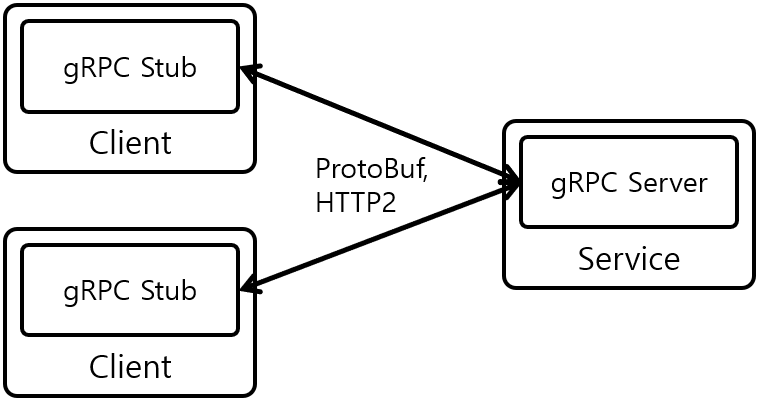
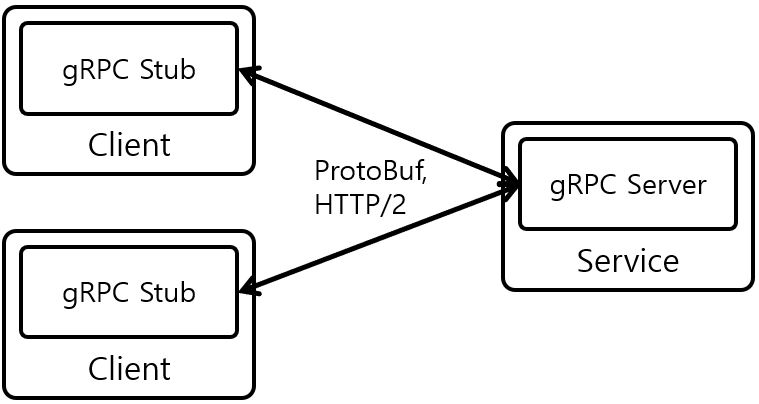
Update

diff --git a/_docs/theory_analysis/gRPC.md b/_docs/theory_analysis/gRPC.md
@@ -11,16 +11,43 @@ gRPC를 분석한다.
 
 ### 1. gRPC
 
-![[그림 1] Forward Proxy]({{site.baseurl}}/images/theory_analysis/gRPC/gRPC_Architecture.PNG){: width="500px"}
+![[그림 1] Forward Proxy]({{site.baseurl}}/images/theory_analysis/gRPC/gRPC_Architecture.PNG){: width="450px"}
 
-gRPC는 다양한 환경에서 구동 가능한 RPC (Remote Procedure Call) Framework이다. [그림 1]은 gRPC Architecture를 나타내고 있다. 요청을 처리하는 Service에서는 gRPC Server가 동작하며, Client에서는 gRPC Stub이 동작한다. gRPC Server와 gRPC Stub 사이의 Interface는 ProtoBuf를 이용하여 정의한다. gRPC Server와 gRPC Stub 사이에는 다양한 Protocol을 통해서 통신이 가능하지만 일반적으로는 HTTP2를 이용한다.
+gRPC는 다양한 환경에서 구동 가능한 RPC (Remote Procedure Call) Framework이다. [그림 1]은 gRPC Architecture를 나타내고 있다. 요청을 처리하는 Service에서는 gRPC Server가 동작하며, Client에서는 gRPC Stub이 동작한다. gRPC Server와 gRPC Stub 사이의 Interface는 ProtoBuf를 이용하여 정의한다. gRPC Server와 gRPC Stub 사이에는 HTTP/2를 이용하여 통신한다. gRPC는 현재 Java, C++, Golang, Ruby, Python등 다양한 언어를 지원한다.
 
 #### 1.1. ProtoBuf
 
-#### 1.2. vs HTTP1 + JSON
+{% highlight text %}
+message Person {
+  string name = 1;
+  int32 id = 2;
+  string email = 3;
+
+  enum PhoneType {
+    MOBILE = 0;
+    HOME = 1;
+    WORK = 2;
+  }
+
+  message PhoneNumber {
+    string number = 1;
+    PhoneType type = 2;
+  }
+}
+{% endhighlight %}
+<figure>
+<figcaption class="caption">[파일 1] addressbook.proto </figcaption>
+</figure>
+
+ProtoBuf는 Server와 Client 사이에서 구조화된 Data를 쉽게 주고 받을수 있도록, Interface를 정의하고 구조화된 Data를 Serialization하는 역활을 수행한다. [파일 1]은 구조화된 Data인 Person Data를 ProtoBuf 규격에 맞게 저장하고 있는 .proto 파일을 나타내고 있다. ProtoBuf는 .proto 파일을 컴파일하여 gRPC Server와 gRPC Client에서 이용할 수 있는 Code를 생성한다. 생성된 Code를 이용하여 Server와 Client는 gRPC를 수행한다.
+
+#### 1.2. vs HTTP/1.1 + JSON
+
+gRPC가 현재 주목받는 가장큰 이유는 기존의 HTTP/1.1 + JSON Protocol보다 빠르기 때문이다. HTTP/1.1과 JSON은 Text Protocol인 만큼 성능면에서는 분리하다. gRPC에서 이용하는 HTTP/2와 ProtoBuf는 Binray Protocol인만큼 상대적을 적은양의 Packet을 주고 받는다. 또한 gRPC는 HTTP/2에서 지원하는 Connection Multiplexing, Server/Client Streaming을 이용하여 효율성을 좀더 끌어 올리고 있다.
 
 ### 2. 참조
 
 * [https://grpc.io/docs/](https://grpc.io/docs/)
 * [https://medium.com/@goinhacker/microservices-with-grpc-d504133d191d](https://medium.com/@goinhacker/microservices-with-grpc-d504133d191d)
 * [https://github.com/HomoEfficio/dev-tips/blob/master/gRPC%20-%20Overview.md](https://github.com/HomoEfficio/dev-tips/blob/master/gRPC%20-%20Overview.md)
+* [https://github.com/protocolbuffers/protobuf/blob/master/examples/addressbook.proto](https://github.com/protocolbuffers/protobuf/blob/master/examples/addressbook.proto)
